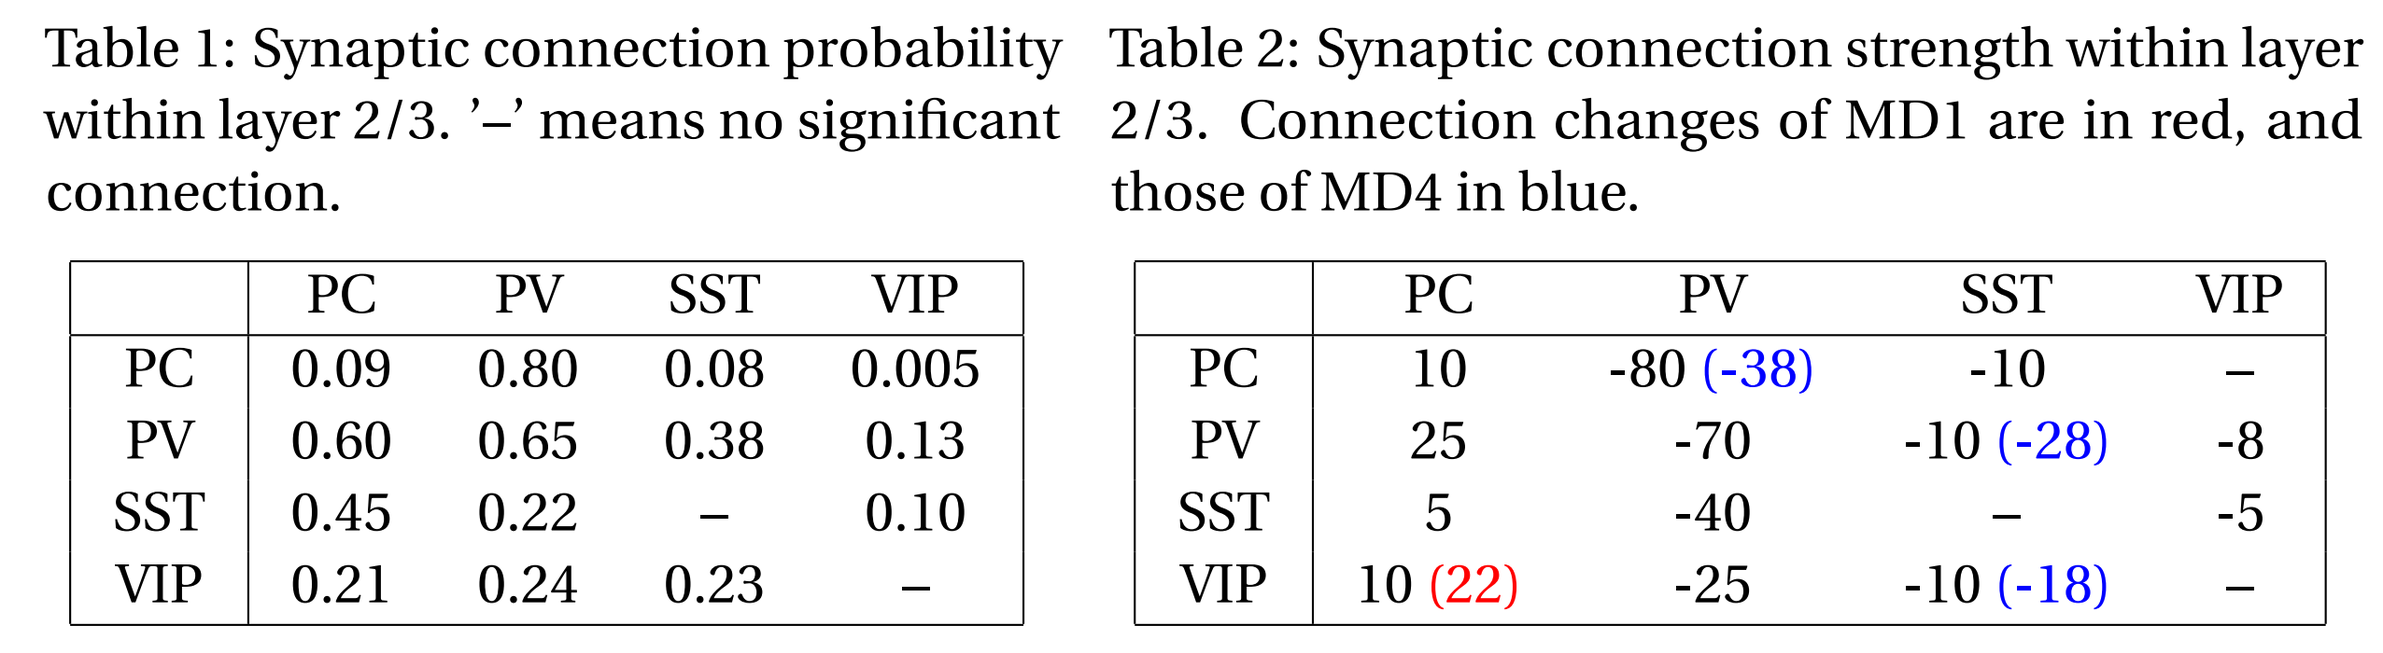
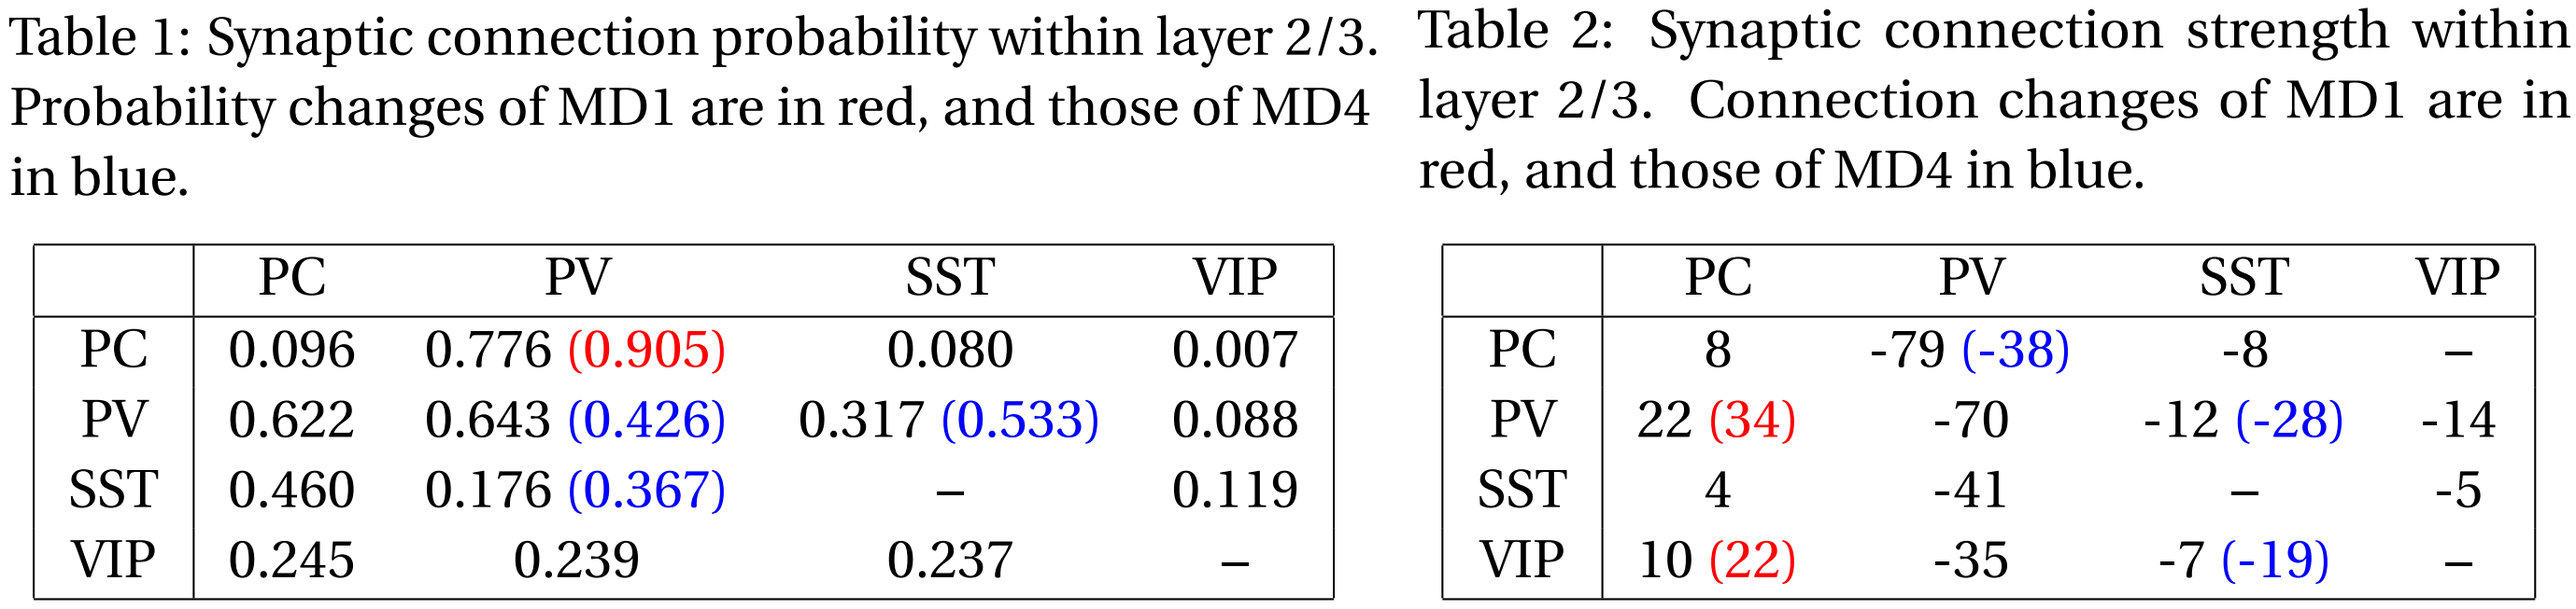
update code

diff --git a/do_statistics.py b/do_statistics.py
@@ -15,7 +15,6 @@ Acknowledgement: Brainpy developer: Chaoming Wang
 """
 import brainpy as bp
 import numpy as np
-#bp.backend.set('numba', dt=0.1) 
 from NeuronZoo import PCNeuron, PVNeuron, SSTNeuron, VIPNeuron
 from utils import SetConnectivity, violoin_plot
 
@@ -112,22 +111,27 @@ def run_trials(n_trials, x_s, x_d, x_i_pv, x_i_sst, x_i_vip, noise_strength, sta
         #reset the firing rates of different cell types
         pcs.r_pc[:] = 0.; pvs.r_pv[:] = 0.; ssts.r_sst[:] = 0.; vips.r_vip[:] = 0.  
         runner = bp.dyn.DSRunner(micro_net, 
-                                 monitors=['PC.r_pc', 'PC.I_0', 'PV.r_pv', 'SST.r_sst', 'VIP.r_vip'], 
+                                 monitors=['PC.r_pc', 'PC.I_0',
+                                           'PV.r_pv', 'SST.r_sst',
+                                           'VIP.r_vip'],
                                  dt=0.1)
         runner.run(duration=1000)
         
         #for each trial, random sampling 5 neurons
         idx = np.random.choice(700, 1, replace=False)
-        pc_samples = pcs.mon.r_pc[-1,idx]; PC_Sam.append(pc_samples)
+        pc_samples = runner.mon['PC.r_pc'][-1,idx]; PC_Sam.append(pc_samples)
         
         idx = np.random.choice(100, 1, replace=False)
-        pv_samples = pvs.mon.r_pv[-1,idx]; PV_Sam.append(pv_samples)
-        
+        pv_samples = runner.mon['PV.r_pv'][-1,idx]; PV_Sam.append(pv_samples)
+        # pv_samples = pvs.mon.r_pv[-1,idx]; PV_Sam.append(pv_samples)
+
         idx = np.random.choice(100, 1, replace=False)
-        sst_samples = ssts.mon.r_sst[-1,idx]; SST_Sam.append(sst_samples)
-        
+        sst_samples = runner.mon['SST.r_sst'][-1,idx]; SST_Sam.append(sst_samples)
+        # sst_samples = ssts.mon.r_sst[-1,idx]; SST_Sam.append(sst_samples)
+
         idx = np.random.choice(100, 1, replace=False)
-        vip_samples = vips.mon.r_vip[-1,idx]; VIP_Sam.append(vip_samples)
+        vip_samples = runner.mon['VIP.r_vip'][-1,idx]; VIP_Sam.append(vip_samples)
+        # vip_samples = vips.mon.r_vip[-1,idx]; VIP_Sam.append(vip_samples)
 
     PC_Samples = np.concatenate(PC_Sam); PV_Samples = np.concatenate(PV_Sam)
     SST_Samples= np.concatenate(SST_Sam); VIP_Samples = np.concatenate(VIP_Sam)
@@ -137,7 +141,7 @@ def run_trials(n_trials, x_s, x_d, x_i_pv, x_i_sst, x_i_vip, noise_strength, sta
 def do_stats(cond):
     
     if cond == 'Spont.':
-        n_trials = 1; noise_strength = 5.0 #noise level
+        n_trials = 5; noise_strength = 5.0 #noise level
         x_s = 18.0; x_d = 18.0
         x_i_pv = 1.5; x_i_sst=1.5; x_i_vip=0.5
         print('Modeling Spontaneous...') 
@@ -151,10 +155,13 @@ def do_stats(cond):
         
     PC_Samples_ctrl1, PV_Samples_ctrl1, SST_Samples_ctrl1, VIP_Samples_ctrl1 \
         = run_trials(n_trials, x_s, x_d, x_i_pv, x_i_sst, x_i_vip, noise_strength, state='control')
+    bp.base.clear_name_cache()
     PC_Samples_md1, PV_Samples_md1, SST_Samples_md1, VIP_Samples_md1 \
         = run_trials(n_trials, x_s, x_d, x_i_pv, x_i_sst, x_i_vip, noise_strength, state='md1')
+    bp.base.clear_name_cache()
     PC_Samples_ctrl2, PV_Samples_ctrl2, SST_Samples_ctrl2, VIP_Samples_ctrl2 \
         = run_trials(n_trials, x_s, x_d, x_i_pv, x_i_sst, x_i_vip, noise_strength, state='control')
+    bp.base.clear_name_cache()
     PC_Samples_md4, PV_Samples_md4, SST_Samples_md4, VIP_Samples_md4 \
         = run_trials(n_trials, x_s, x_d, x_i_pv, x_i_sst, x_i_vip, noise_strength, state='md4')
     

diff --git a/NeuronZoo.py b/NeuronZoo.py
@@ -49,7 +49,8 @@ class PCNeuron(bp.dyn.NeuGroup):
         
     def derivative(self, r_pc, t, I_total):    
         I_total_thres = I_total - self.theta_s
-        I_total_thres[I_total_thres < 0] = 0
+        I_total_thres = bm.where(I_total_thres < 0, 0, I_total_thres)
+        # I_total_thres[I_total_thres < 0] = 0
         dr_pc = 1. / self.tau * (-r_pc + I_total_thres)
         return dr_pc
     
@@ -67,23 +68,25 @@ class PCNeuron(bp.dyn.NeuGroup):
         #using numba to speed up, we can't use np.heavisde here. We will update 
         #brainpy to support this in the future
         I_0_thres = I_0-self.theta_c
-        I_0_thres[I_0_thres<=0] = 0
-        I_0_thres[I_0_thres>0] = 1 # dendritic calcium event
+        I_0_thres = bm.where(I_0_thres<=0, 0, 1)
+        # I_0_thres[I_0_thres<=0] = 0
+        # I_0_thres[I_0_thres>0] = 1 # dendritic calcium event
         #dendritic spike current
         I_D0 = self.c*I_0_thres
         
         #4, calculate the total input coming from the dendrites, should be non-negative
         d_current = I_D + I_D0
-        d_current[d_current<0] = 0
-        
+        d_current = bm.where(d_current < 0, 0, d_current)
+        # d_current[d_current<0] = 0
+
         #5, calculate the total input to the soma from generating firing rate
         
         I_total = (1-self.lambda_s)*I_S + self.lambda_d*d_current \
             + self.noise_strength*self.rng.randn(self.num)
         
         self.I_S.value  = I_S
-        self.I_D.value  = I_D 
-        self.I_D0.value = I_D0
+        self.I_D[:]  = I_D
+        self.I_D0[:] = I_D0
         self.I_0.value  = I_0
         
         self.r_pc.value = self.integral(self.r_pc, _t, I_total, _dt)
@@ -135,8 +138,9 @@ class PVNeuron(bp.dyn.NeuGroup):
         
         r_pv        =   self.integral(self.r_pv, _t, I_total, _dt)
         
-        r_pv[r_pv<0] = 0
-        
+        r_pv = bm.where(r_pv < 0, 0, r_pv)
+        # r_pv[r_pv<0] = 0
+
         self.r_pv.value = r_pv
         
 class SSTNeuron(bp.dyn.NeuGroup):
@@ -186,8 +190,9 @@ class SSTNeuron(bp.dyn.NeuGroup):
         
         r_sst       =   self.integral(self.r_sst, _t, I_total, _dt)
         
-        r_sst[r_sst<0] = 0
-        
+        r_sst = bm.where(r_sst < 0, 0, r_sst)
+        # r_sst[r_sst<0] = 0
+
         self.r_sst.value = r_sst
         
 class VIPNeuron(bp.dyn.NeuGroup):
@@ -237,6 +242,7 @@ class VIPNeuron(bp.dyn.NeuGroup):
         
         r_vip = self.integral(self.r_vip, _t, I_total, _dt)
         
-        r_vip[r_vip<0] = 0
-        
+        r_vip = bm.where(r_vip<0, 0, r_vip)
+        # r_vip[r_vip<0] = 0
+
         self.r_vip.value = r_vip
